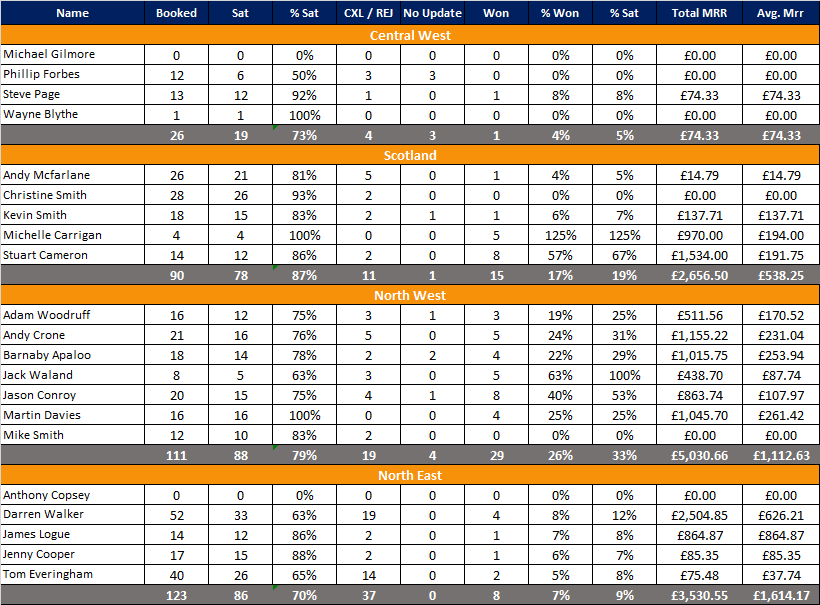
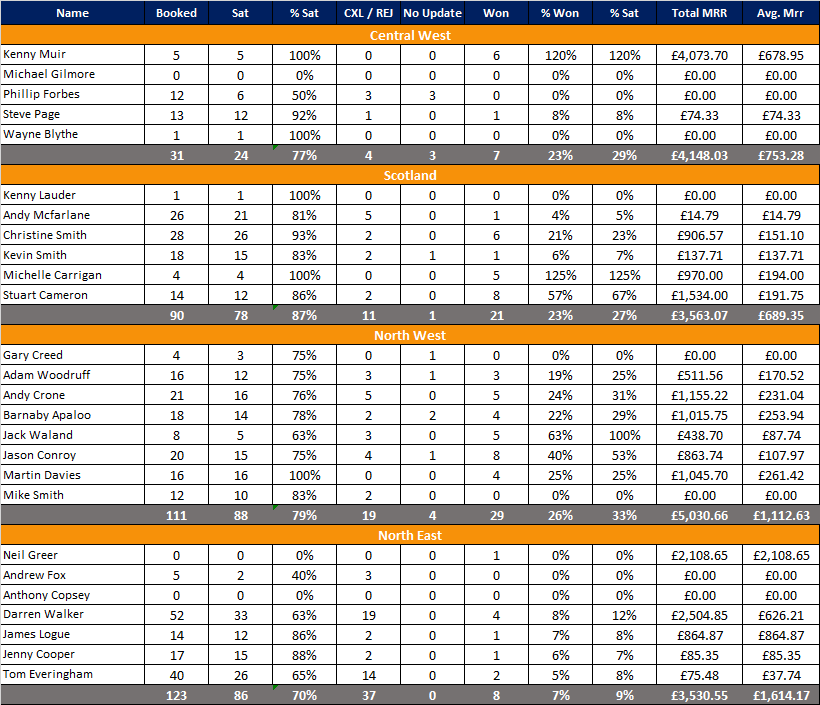
add feb

diff --git a/_posts/2015-01-01-KPI-Jan-field.md b/_posts/2015-01-01-KPI-Jan-field.md
@@ -4,6 +4,6 @@ title: Field KPI's
 ---
 
 
-![My helpful screenshot](/assets/KPI-Field-Jan.png)
+![My helpful screenshot](/assets/KPI-Field-Feb.png)
 
-[Enlarge]({{ site.url }}/assets/KPI-Field-Jan.png)
+[Enlarge]({{ site.url }}/assets/KPI-Field-Feb.png)
